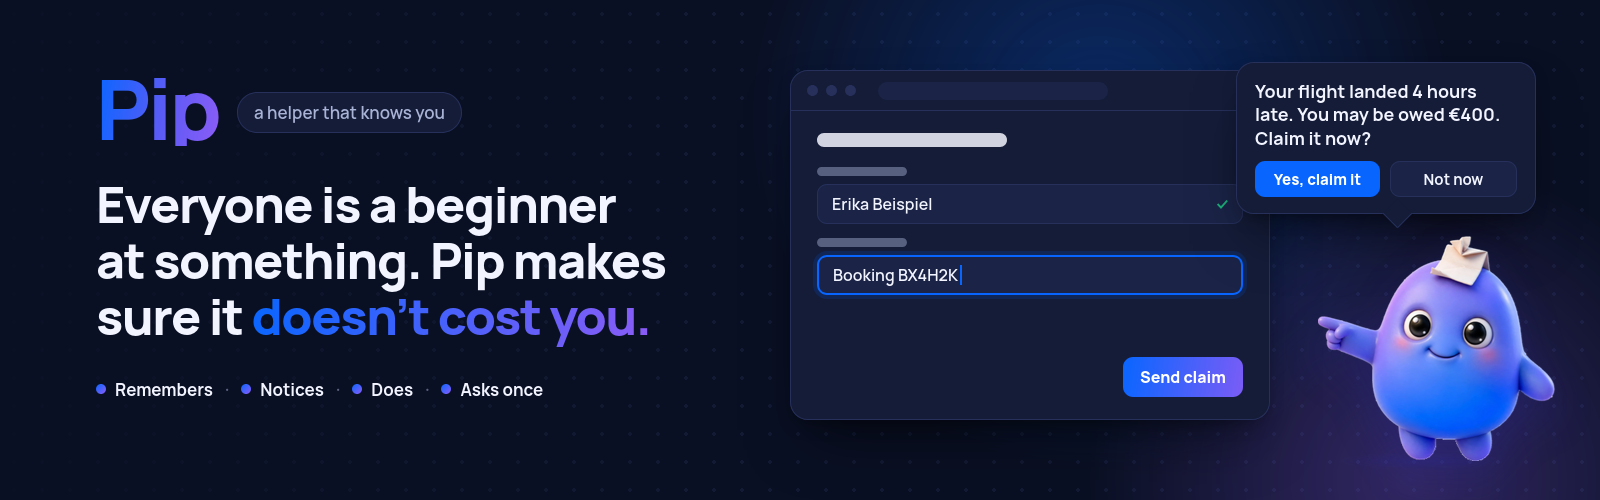
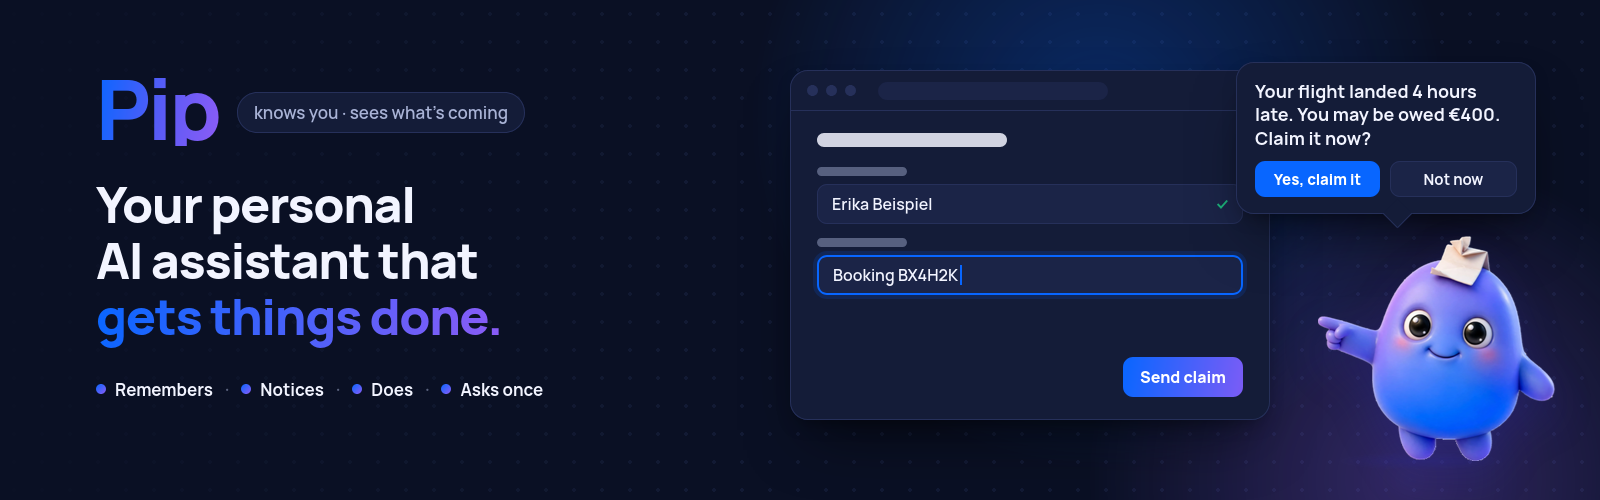
README: personal assistant headline, plainer text

Changed region(s): [[0.0625, 0.36, 0.4375, 0.69], [0.1562, 0.21, 0.3125, 0.24]]

diff --git a/design/readme/src/banner.html b/design/readme/src/banner.html
@@ -122,9 +122,9 @@
   <div class="text">
     <div class="brand">
       <div class="word">Pip</div>
-      <div class="tag">a helper that knows you</div>
+      <div class="tag">knows you · sees what's coming</div>
     </div>
-    <h1>Everyone is a beginner<br>at something. Pip makes<br>sure it <em>doesn't cost you.</em></h1>
+    <h1>Your personal<br>AI assistant that<br><em>gets things done.</em></h1>
     <div class="steps">
       <span class="step"><i></i>Remembers</span><span class="sep">·</span>
       <span class="step"><i></i>Notices</span><span class="sep">·</span>

diff --git a/README.md b/README.md
@@ -1,16 +1,16 @@
 <p align="center">
   <picture>
     <source media="(prefers-color-scheme: dark)" srcset="design/readme/banner-dark.png">
-    <img src="design/readme/banner.png" alt="Pip, a small blue helper, points at a claim form and asks: Your flight landed 4 hours late. You may be owed €400. Claim it now? Headline: Everyone is a beginner at something. Pip makes sure it doesn't cost you." width="100%">
+    <img src="design/readme/banner.png" alt="Pip, a small blue helper, points at a claim form and asks: Your flight landed 4 hours late. You may be owed €400. Claim it now? Headline: Your personal AI assistant. It knows you, sees what's coming, and gets things done with you." width="100%">
   </picture>
 </p>
 
 <h1 align="center">Pip</h1>
 
 <p align="center">
-  <b>Everyone is a beginner at something. Pip makes sure it doesn't cost you.</b><br>
-  Pip is a personal assistant that knows you, notices what's coming, and gets things done with you:<br>
-  letters, claims, forms, deadlines, on any screen. It asks only once, before anything leaves your computer.<br>
+  <b>Your personal AI assistant. It knows you, sees what's coming, and gets things done with you.</b><br>
+  Money you're owed, a letter you don't understand, a form you keep putting off, a date you'd forget.<br>
+  Pip handles it on your own screen and asks you before anything gets sent.<br>
   <sub>Powered by Meta's models: <b>Muse Spark</b>, <b>SAM 3.1</b>, <b>Muse Voice</b>, <b>Muse Image</b> and the open-weights <b>Muse Glimmer</b>.</sub>
 </p>
 
@@ -36,92 +36,90 @@
 
 ## Why Pip exists
 
-Life is full of things nobody ever taught you how to do. Claiming money you are owed. Answering a letter from an
-office. Insurance, taxes, a move, an application, a deadline hidden on page two. Each one needs knowledge you don't
-have and time you don't want to spend, so you put it off, or you get it wrong, or you give up.
+Most of us have a list of things we keep putting off. Claiming the refund for a late train. Answering a letter we only
+half understand. Changing the address on six accounts after a move. Each of these needs knowledge we don't have and
+time we'd rather spend on something else, so we wait, guess, or give up, and it costs money and chances.
 
-Everyone is a beginner at something. A software engineer can be lost with a tax form. A nurse can be lost with a
-university portal. Someone new to a country can be lost with all of it. And people who are ill, tired or older lose
-the most, because they have the least strength left. The cost is real: money nobody claims, deadlines nobody
-notices, chances that quietly pass.
+Everyone is a beginner at something. A software engineer can be lost with a tax form, and a nurse with a university
+portal. Someone new to a country can be lost with all of it. People who are ill, tired or older lose the most,
+because they have the least energy left for any of it.
 
-**Pip is the helper who knows you and knows how.** It remembers what matters about you, notices what's coming before
-you do, and does the work with you on your own screen. You stay in charge: Pip asks once, before anything leaves
-your computer.
+Pip is a helper who knows you and knows how these things work. It remembers what matters about you, tells you what's
+coming before you have to ask, and does the work with you. You stay in charge, and nothing gets sent without your yes.
 
-It started with my mom. She once lost money because a document was issued two days late. It was a deadline from her
-health insurer, and nobody told her. She was ill, tired, and nobody was watching the date for her.
-**Pip is the helper I wish she had had, and the one I want for myself.**
+I started building Pip because of my mom. She once lost money because a document was issued two days late. The
+deadline came from her health insurer, nobody told her, and she was ill and tired at the time. I wanted her to have a
+helper who watches those dates, and I wanted one for myself too.
 
 ## Meet Pip
 
-Pip is not another app you have to learn. It is a small buddy in the corner of your screen. You click it, and it
-helps. It works with the programs and websites you already use, on your real screen.
+Pip lives in the corner of your screen as a small blue character. Click it and tell it what you need, or let it tell
+you. It works with the websites and programs you already use.
 
 <table>
   <tr>
     <td width="50%" valign="top">
       <img src="design/readme/poses/think.png" alt="" width="64" align="right">
-      <h3>🧠 It remembers you</h3>
-      Your name, your insurer, your student number, and how each website worked last time. Every fact shows where
-      it came from: "from your letter of 14 October" or "you told me". Open <b>What Pip knows</b> and press
-      <b>Forget</b> on any line.
+      <h3>It remembers you</h3>
+      Your name, your insurer, your student number, and how each website worked last time. Every fact shows where it
+      came from, like "from your letter of 14 October" or "you told me". You can open <b>What Pip knows</b> at any
+      time and forget a line with one click.
     </td>
     <td width="50%" valign="top">
       <img src="design/readme/poses/listen.png" alt="" width="64" align="right">
-      <h3>🔔 It speaks up first</h3>
-      Show Pip a letter (a phone photo is enough). Pip says in two plain sentences what it is and what matters, and
-      keeps the dates. Each morning Pip says what is due and offers to do it: <i>"I can do this for you right now."</i>
+      <h3>It speaks up first</h3>
+      Show Pip a letter (a phone photo is enough) and it tells you in two plain sentences what the letter wants and by
+      when. Each morning it says what's due and offers to take care of it: <i>"I can do this for you right now."</i>
     </td>
   </tr>
   <tr>
     <td width="50%" valign="top">
       <img src="design/readme/poses/point.png" alt="" width="64" align="right">
-      <h3>🖱 It does the work</h3>
-      Press <b>Look at my screen</b> on any page. Pip says what is open, then fills the whole form with what it
-      knows. It asks only for what it doesn't know. You watch Pip fly to each field, and you can stop it any time.
+      <h3>It does the work</h3>
+      Press <b>Look at my screen</b> on any page. Pip tells you what it sees and fills in the whole form with what it
+      knows, asking only for what it doesn't. You can watch it move from field to field and stop it whenever you like.
     </td>
     <td width="50%" valign="top">
       <img src="design/readme/poses/ask.png" alt="" width="64" align="right">
-      <h3>✋ It asks only once</h3>
-      Looking, typing and opening pages need no permission. Before anything leaves your computer, Pip shows
-      <b>one clear card</b>: what, to whom, and which button. Nothing is sent without your yes. Tick
-      <b>Don't ask again</b> for a site you trust.
+      <h3>It asks before sending</h3>
+      Pip can look, type and open pages on its own. Before anything leaves your computer, it shows one card with what
+      it's sending, to whom, and which button it will press. For a site you trust, you can tick <b>Don't ask again</b>.
     </td>
   </tr>
 </table>
 
-**Pip is for you if**
+Pip is for you if:
 
-- ✅ letters and online forms make you tired before you even start
-- ✅ you have missed a date or a claim before, because nobody reminded you
-- ✅ you are great at your job, but insurance, taxes and claims are not your thing
-- ✅ you help a parent or a friend with their paperwork, and you can't always be there
-- ✅ you are new to a country and the forms are not in your language
+- letters and online forms tire you out before you start
+- you've missed a date or a refund because nobody reminded you
+- you're good at your job, and insurance, taxes and claims just aren't your thing
+- you help a parent or a friend with their paperwork and can't always be there
+- you're new to a country and the forms aren't in your language
 
-> **Pip helps, you decide.** Pip explains letters in plain words, keeps every date, finds the right form and fills it
-> in, and names the source of every rule it uses. It does not replace a doctor, a lawyer or a financial adviser.
-> Decisions about your health, your rights and your money stay yours.
+> Pip helps, you decide. It explains letters in plain words, keeps track of dates, finds the right form, fills it in,
+> and tells you where each rule comes from. It doesn't replace a doctor, a lawyer or a financial adviser, and the
+> decisions about your health, your rights and your money stay with you.
 
 ## See Pip at work
 
-**Any form, one button.** Open any online form and press **Look at my screen**. Pip says in one sentence what the
-page is and what it will do. Then it fills in everything it knows about you, asks only for what is missing, and stops
-at the send button with one card. If there is nothing to do, Pip offers two or three things it can do instead.
+**Any form.** Open an online form and press Look at my screen. Pip says in one sentence what the page is, fills in what
+it knows about you, asks for what's missing, and stops at the send button. If there's nothing to fill in, it suggests
+a few things it could do instead.
 
 **A university re-registration.** A student opens the (invented) Beispiel University page. Pip fills in the name from
-memory, ticks the fee box and asks once: *"What is your student number?"* Pip keeps the answer and learns how the
-page works. **The second time there is no question at all.**
+memory, ticks the fee box and asks once for the student number. It keeps the answer and remembers how the page works,
+so the next time it doesn't need to ask.
 
-**A deadline from the insurer.** Erika (an invented person) gets a letter from her health insurer: they need a
-questionnaire back by a date. She shows Pip the photo. The next morning Pip says hi, names what is due, and offers to
-do it. One click: Pip opens the insurer's page, fills the questionnaire from what it knows and stops at one card.
+**A letter from the insurer.** Erika, an invented person, gets a letter: her insurer needs a questionnaire back by a
+certain date. She shows Pip a photo of it. The next morning Pip greets her, mentions the date, and offers to fill in
+the questionnaire. One click later Pip has opened the insurer's page, filled it in from what it knows, and is waiting
+at the send card.
 
-**One step ahead.** When you finish a task yourself, Pip checks the website for a service that fits your letters and
-deadlines. It offers one only when that heading is really on the page, and never twice.
+**The next step.** After you finish a task, Pip looks at the website for another service that fits your letters and
+dates. It only suggests one if that service is really listed on the page, and it never suggests the same one twice.
 
-Every finished task ends with the time it took and an honest estimate by hand, for example *"Done in 17 s. By hand
-this takes about 4 minutes."*
+At the end of each task Pip tells you how long it took and how long it would take by hand, for example *"Done in 17 s.
+By hand this takes about 4 minutes."*
 
 ## How Pip works
 
@@ -147,15 +145,15 @@ Dates come from rules in code (weekends and public holidays included), never fro
 
 ### Built on Meta's models
 
-Pip would not be possible without Meta's model family. A personal assistant that can act for you needs three things at once:
-a model that can **see** a screen and **reason** about it, a model that knows **exactly where** a button is, and a
-way to keep personal letters **private**. Meta offers all three, from one API and as open weights:
+Pip runs on Meta's models. An assistant that acts for you has to see a screen and reason about it, know where a
+button is down to the pixel, and keep personal letters private. Meta covers all of that, through one API and as open
+weights.
 
-- **Muse Spark** reads a screenshot and a letter the way a person does, and plans what to do next with tool calls.
-  One model is the brain for the whole agent, so Pip stays simple and fast.
-- **SAM 3.1** gives pixel-exact boxes. Pip's clicks land in the middle of the real button, not next to it.
-- **Open weights** (Muse Glimmer, Muse Spark Open) let the same kind of model run on your own computer, so a private
-  letter never has to leave it.
+- Muse Spark reads a screenshot or a letter and plans the next steps with tool calls. One model drives the whole
+  agent, which keeps Pip simple and fast.
+- SAM 3.1 returns exact boxes for buttons and fields, so Pip's clicks land in the middle of the right one.
+- The open-weights models (Muse Glimmer, Muse Spark Open) can run on your own computer, so a private letter can stay
+  there.
 
 | Model | Its job in Pip | Status |
 |---|---|---|
@@ -251,13 +249,12 @@ Architecture, target finding, the gate in detail and the full eval: **[docs/TECH
 ## Built for the Meta Global AI Developer Hackathon
 
 Pip was built from October 26 to November 4, 2026, in the **Indie track**, theme **"Build for your world"**. My
-world is a family where everyone is a beginner at something, and nobody should lose out because of it.
+world is my family, where everyone is a beginner at something.
 
-- **Impact:** a helper for everyone the digital world leaves behind.
-- **Meta AI at the core:** Muse Spark thinks and sees, SAM 3.1 finds the buttons, Muse Voice Transcribe listens,
-  Muse Image drew Pip, and Muse Glimmer / Muse Spark Open keep letters private.
-- **Technical depth:** all Rust, a real computer-use agent with an approval gate, a learning memory with per-site
-  playbooks, and proactive offers that are checked in code before Pip says a word.
+Pip is meant for anyone who loses money, time or chances to tasks nobody taught them. Inside, Muse Spark sees and
+plans, SAM 3.1 finds the buttons, Muse Voice Transcribe listens, Muse Image drew Pip, and Muse Glimmer / Muse Spark
+Open keep letters private. It's written in Rust, with an approval gate in front of every send, a memory that learns
+each website, and suggestions that are checked in code before Pip says anything.
 
 ## Roadmap
 
@@ -269,8 +266,8 @@ world is a family where everyone is a beginner at something, and nobody should l
 
 ## License
 
-Apache-2.0. Made by Marco Patzelt, for his mom and for everyone like her. All people, insurers, universities and
-numbers in this repository are invented.
+Apache-2.0. Made by Marco Patzelt for his mom, and for the rest of us. All people, insurers, universities and numbers
+in this repository are invented.
 
 <p align="center">
   <img src="design/readme/poses/happy.png" alt="Pip, happy, with both arms up" width="90">
